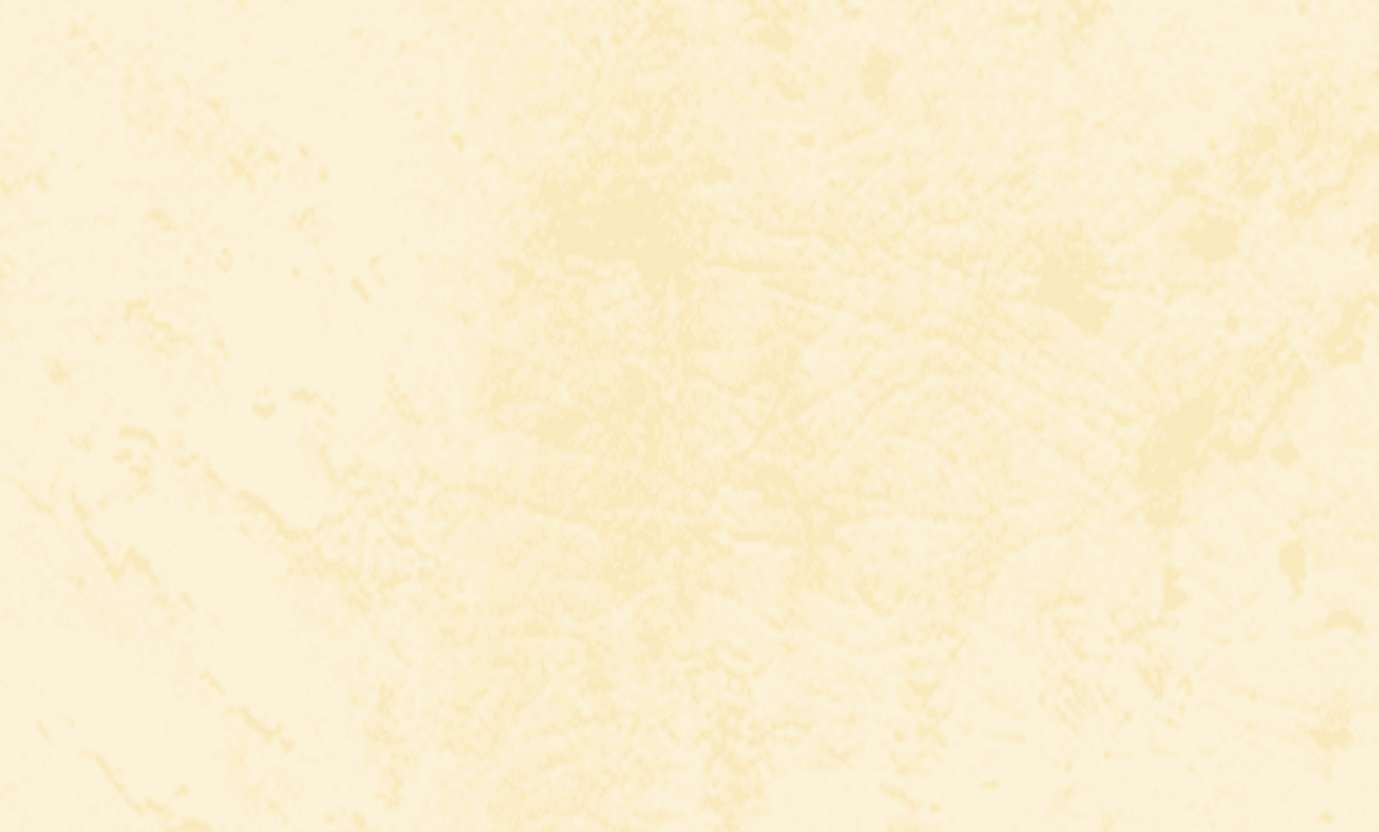
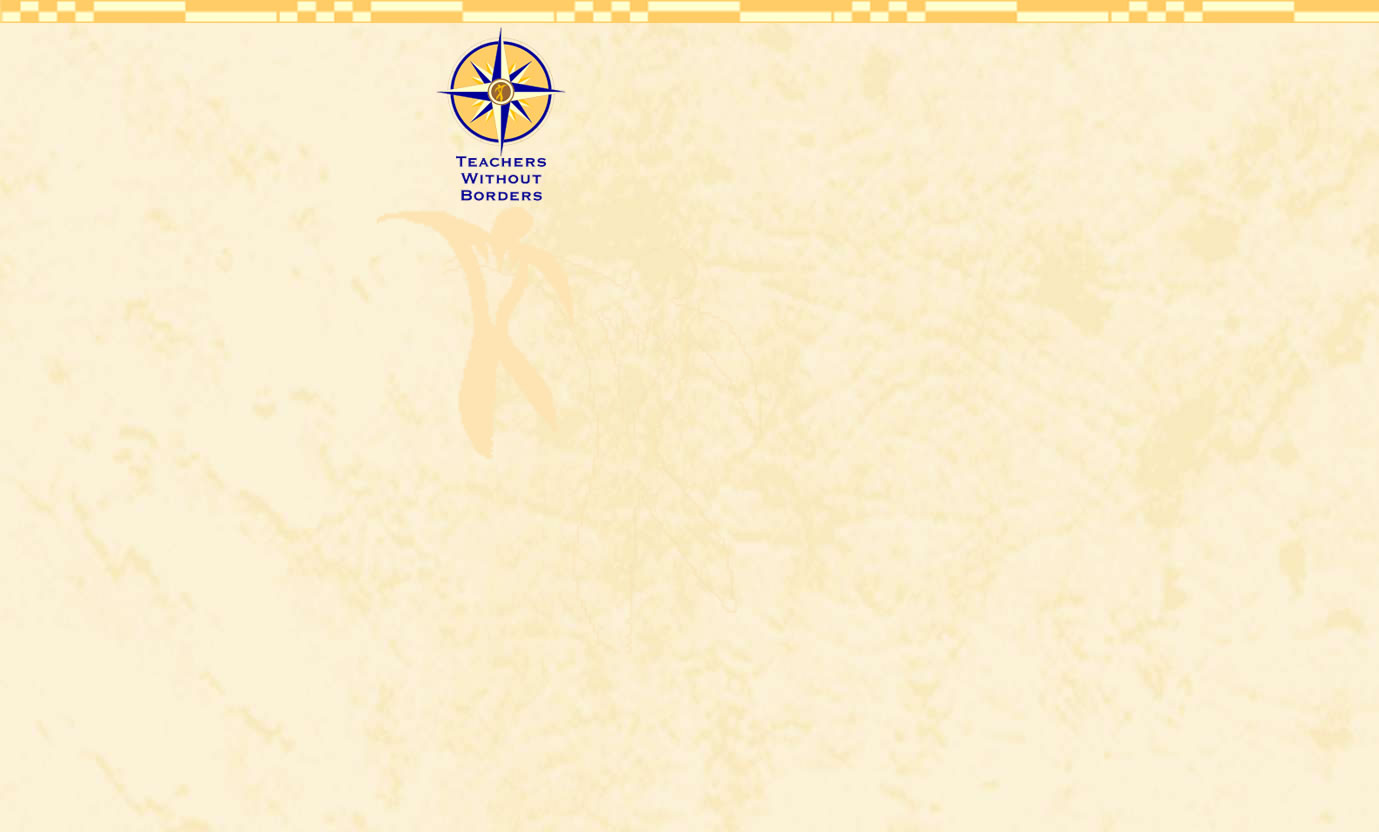
Replaced background png w/ jpg

Changed region(s): [[0.0, 0.0, 1.0, 0.5625]]

diff --git a/public/stylesheets/application.css b/public/stylesheets/application.css
@@ -390,7 +390,7 @@ table.news td.center{vertical-align:middle;}
 #home .home-subtitle{color:#744710;margin:3px 0px 0px 8px;}
 #home-members-action a{color:#744710;}
 #home-toolset a{color:#744710;}
-#twb-navheader{background:url(/images/parchment-background2.png) x-repeat;}
+#twb-navheader{background:url(/images/parchment-background2.jpg) x-repeat;}
 #twb-navigation{float:left;display:inline;width:100%;margin:0 0 1px 0;}
 #twb-navigation input.search-text{float:left;margin:4px 5px;padding:0 2px;overflow:hidden;width:90px;height:15px;}
 #twb-navigation input.search-button{float:left;margin:4px 5px;background:#666666;color:#fff;font-weight:bold;width:auto;height:20px;padding:0;}
